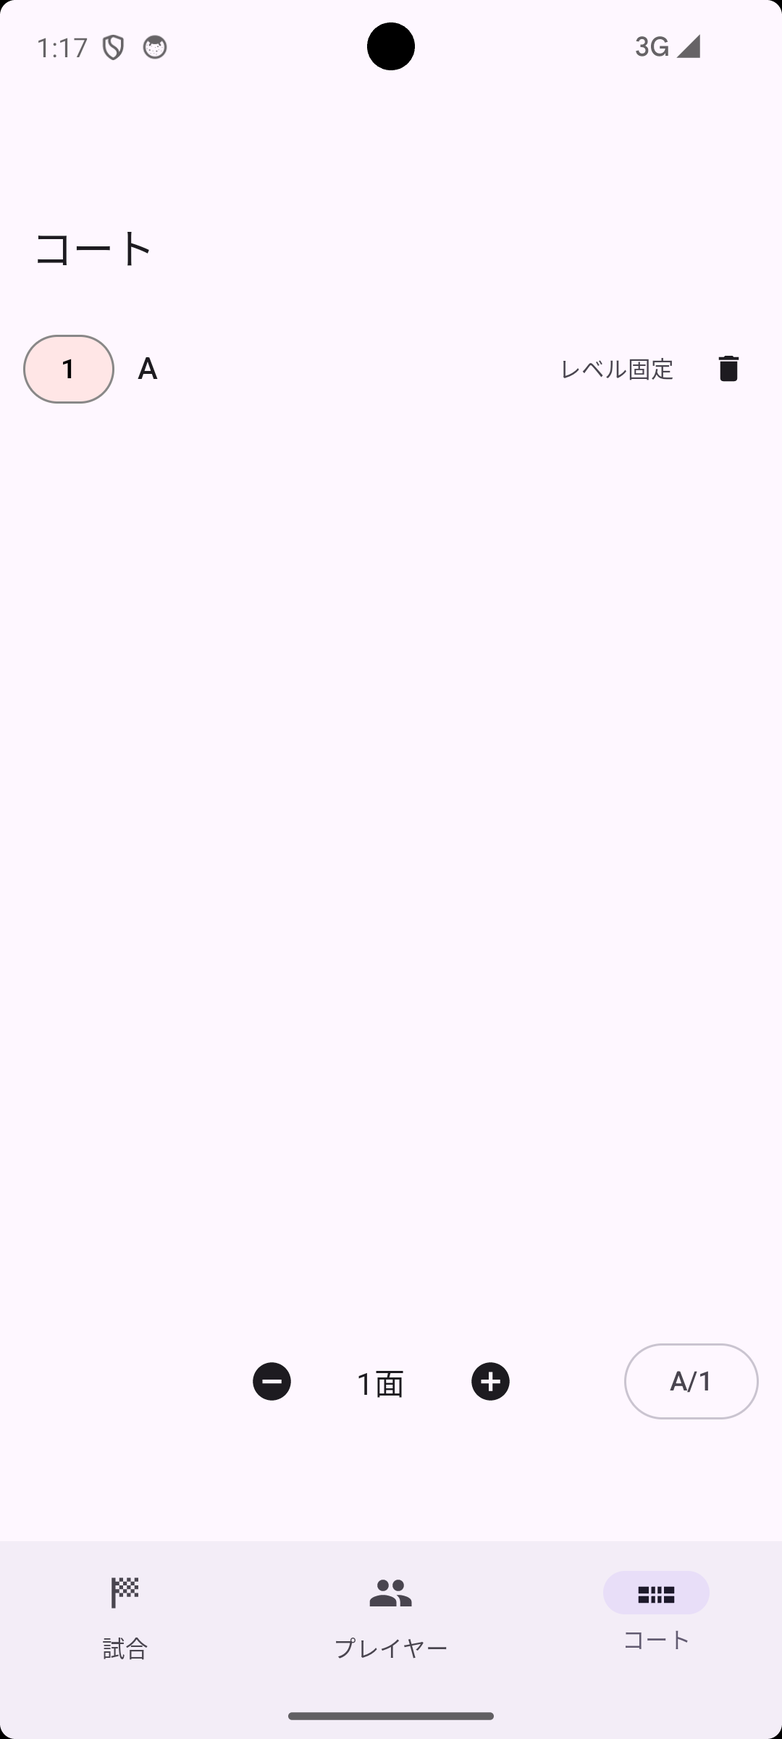
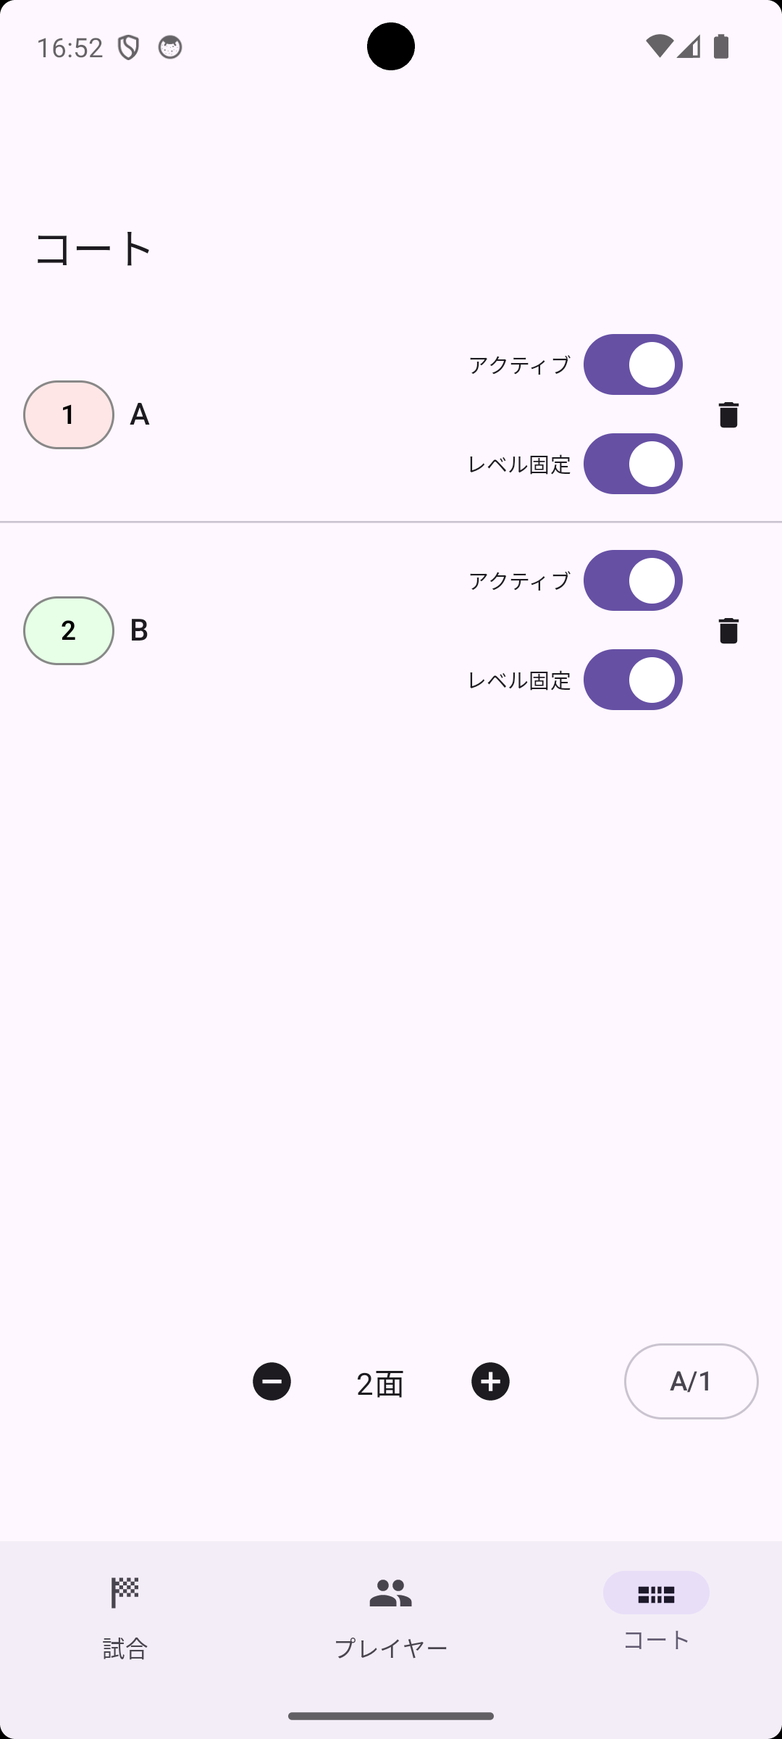
v1.2.13: Game Point設定・自動勝敗判定、コート編集の刷新を反映
試合タブ・コートタブ・プレイヤータブのヘルプ内容をv1.2.13の変更
（Game Point設定と自動勝敗判定、コート行のインライン設定、試合数
表示のG→M変更）に合わせて更新。コート・スコア画面のスクリーンショット
も差し替え。

diff --git a/game-tab.html b/game-tab.html
@@ -37,7 +37,12 @@
   </li>
   <li><a href="#free-mode">2. フリーモード（コート単位で個別生成）</a></li>
   <li><a href="#reset-scores">3. 試合結果をリセットする</a></li>
-  <li><a href="#score-input">4. スコア入力</a></li>
+  <li><a href="#score-input">4. スコア入力</a>
+    <ul>
+      <li><a href="#game-point">Game Point（勝利に必要な得点）を設定する</a></li>
+      <li><a href="#next-game-setup">G1・G2 終了後の自動設定</a></li>
+    </ul>
+  </li>
   <li><a href="#menu">5. 試合タブのメニュー</a>
     <ul>
       <li><a href="#share-session">セッションを共有</a></li>
@@ -78,14 +83,14 @@
 <div class="tip">💡 プレイヤーごと最初からやり直したい場合は、プレイヤータブの「プレイヤーのリセット」をご利用ください。</div>
 
 <h2 id="score-input">4. スコア入力</h2>
-<p>試合タブの試合行をタップすると、スコア入力画面が開きます（通常は縦向きで表示され、端末を横向きにすると2カラムのレイアウトに切り替わります）。画面は上から順に、<code>終了</code> トグル、そのコートで何ゲーム目かを切り替える <code>G1 / G2 / G3</code> ピッカーとここまでの勝ちゲーム数（<code>A: 0 - 0 :B</code>）、プレイヤー表示、<code>エンド</code> / <code>サーブ</code> ボタン、得点ボタンという構成です。勝ちゲーム数とゲームピッカーのスコアは、常に <strong>ペアA:ペアB</strong> の順で固定表示され、後述のエンドチェンジを行っても入れ替わりません。</p>
+<p>試合タブの試合行をタップすると、スコア入力画面が開きます（通常は縦向きで表示され、端末を横向きにすると2カラムのレイアウトに切り替わります）。画面は上から順に、<code>Game Point</code>（勝利に必要な得点）の設定と <code>終了</code> トグル、そのコートで何ゲーム目かを切り替える <code>G1 / G2 / G3</code> ピッカーとここまでの勝ちゲーム数（<code>A: 0 - 0 :B</code>）、プレイヤー表示、<code>エンド</code> / <code>サーブ</code> ボタン、得点ボタンという構成です。勝ちゲーム数とゲームピッカーのスコアは、常に <strong>ペアA:ペアB</strong> の順で固定表示され、後述のエンドチェンジを行っても入れ替わりません。</p>
 <p>プレイヤー表示には、それぞれ <strong>ペアA</strong> / <strong>ペアB</strong>（内部の pairA・pairB に対応）のラベルが付きます。こちらはエンドチェンジで実際の左右位置が入れ替わると、表示も一緒に切り替わります。</p>
 <div class="ss"><img src="images/score-main.png" alt="スコア入力画面"></div>
 
 <h3 id="input-score">得点を入力する</h3>
 <p>青（ペアA）・赤（ペアB）の大きな正方形ボタンに、それぞれの現在の得点が数字で表示されています。このボタンをタップすると、そのペアに1点が加算されます。ボタンは画面左右の位置に固定されており、後述のエンドチェンジでペアが入れ替わると、表示される数字（担当するペア）もそれに合わせて切り替わります。</p>
 <p>得点に合わせてサーブ権が自動で切り替わり、サーブ権を持つボタンの真上に「▲ サーブ」の表示が出ます。</p>
-<div class="tip">💡 得点は最大 30 点まで入力できます。</div>
+<div class="tip">💡 得点の上限は <a href="#game-point">Game Point</a> の設定によって変わります（デフォルトの Game Point 21 の場合、上限は30点）。</div>
 
 <h3 id="undo-score">得点を取り消す</h3>
 <p>中央の <code>↩</code>（元に戻す）ボタンで直前の得点を1点ずつ取り消せます。</p>
@@ -94,7 +99,25 @@
 <p>画面上部のタブ（<code>G1 / G2 / G3</code>）で第1ゲーム・第2ゲーム・第3ゲームを切り替えます。ここに表示されるスコアも <strong>ペアA:ペアB</strong> の順で固定表示されます。</p>
 
 <h3 id="finish-game">ゲーム終了を記録する</h3>
-<p>画面上部の <code>終了</code> トグルをオンにするとそのゲームが終了扱いになり、勝ちゲーム数（<code>A: 0 - 0 :B</code>）に反映されます。</p>
+<p>画面上部の <code>終了</code> トグルをオンにするとそのゲームが終了扱いになり、勝ちゲーム数（<code>A: 0 - 0 :B</code>）に反映されます。勝敗が決まる得点に達すると（下記「Game Point」参照）、このトグルは自動的にオンになります。まだ勝敗が決まっていない場合でも、手動でオンにすることは可能です。</p>
+
+<h3 id="game-point">Game Point（勝利に必要な得点）を設定する</h3>
+<p><code>終了</code> トグルの左側にある <code>Game Point</code> の <code>−</code> / <code>+</code> ボタンで、1ゲームの勝利に必要な得点を変更できます（デフォルト21点、バドミントン公式ルール）。この設定はアプリ全体で共有され、変更すると進行中の他の試合にもすぐに反映されます。</p>
+<p>設定した Game Point の値を N とすると、以下のルールで自動的に勝敗が判定され、決まった時点で <code>終了</code> トグルが自動的にオンになります。</p>
+<ul>
+  <li>先に N 点に到達したサイドがそのゲームの勝者となります</li>
+  <li>スコアが (N−1) 点オールになった場合は、その後最初に2点リードしたサイドが勝者となります</li>
+  <li>スコアが (N+8) 点オールになった場合は、次の1点（N+9点目）を先取したサイドが勝者となります</li>
+</ul>
+<div class="tip">💡 デフォルトの21点の場合、20点オールで2点差勝ち、29点オールで30点目の1点勝ち抜けとなり、公式ルールと同じ挙動になります。</div>
+
+<h3 id="next-game-setup">G1・G2 終了後の自動設定</h3>
+<p>G1 または G2 が終了すると（<code>終了</code> トグルがオンになると）、次のゲーム（G2 または G3）のエンドとサーブ権が自動的に設定されます。</p>
+<ul>
+  <li><strong>エンド</strong> — 前のゲームとは逆側になります</li>
+  <li><strong>サーブ</strong> — 前のゲームの勝者側が、次のゲームの最初のサーブ権を持ちます</li>
+</ul>
+<div class="tip">💡 次のゲームが既に開始されている場合（得点が入っている場合）は上書きされません。</div>
 
 <h3 id="end-change">エンドチェンジ</h3>
 <p><code>エンド</code> ボタンをタップすると、左右のペアが入れ替わります（エンドチェンジ）。<strong>ペアA</strong> / <strong>ペアB</strong> のラベルや得点ボタンの表示も、実際にどちらの位置にいるかに合わせて自動的に入れ替わります。スコア履歴のドットも自動で反転します。</p>

diff --git a/players-tab.html b/players-tab.html
@@ -32,16 +32,17 @@
   <li><a href="#rest-toggle">3. 出場状態を変更する（休憩・復帰）</a></li>
   <li><a href="#rename">4. 名前を変更する</a></li>
   <li><a href="#level">5. レベルを設定する</a></li>
-  <li><a href="#default-absent">6. デフォルト欠席を設定する</a></li>
-  <li><a href="#fixed-pair">7. 固定ペアを設定する</a></li>
-  <li><a href="#status">8. 現在の出場状況を確認する</a></li>
-  <li><a href="#pin">9. ピン留めで優先出場させる</a></li>
-  <li><a href="#save-load">10. メンバーを保存・読み込む</a>
+  <li><a href="#game-wait-count">6. 試合数・待機回数（M・W）を確認する</a></li>
+  <li><a href="#default-absent">7. デフォルト欠席を設定する</a></li>
+  <li><a href="#fixed-pair">8. 固定ペアを設定する</a></li>
+  <li><a href="#status">9. 現在の出場状況を確認する</a></li>
+  <li><a href="#pin">10. ピン留めで優先出場させる</a></li>
+  <li><a href="#save-load">11. メンバーを保存・読み込む</a>
     <ul>
       <li><a href="#groups">グループについて</a></li>
     </ul>
   </li>
-  <li><a href="#shuffle">11. 開始順をシャッフルする</a></li>
+  <li><a href="#shuffle">12. 開始順をシャッフルする</a></li>
 </ul>
 </nav>
 
@@ -69,26 +70,36 @@
 <div class="ss"><img src="images/players-overview.png" alt="レベルバッジ"></div>
 <p>レベルはコートへの割り当てに使用されます。詳しくは「高度な使い方」をご覧ください。</p>
 
-<h2 id="default-absent">6. デフォルト欠席を設定する</h2>
+<h2 id="game-wait-count">6. 試合数・待機回数（M・W）を確認する</h2>
+<p>レベルバッジの右には、<strong>M</strong>（試合数）と<strong>W</strong>（待機回数）が数字で表示されます。</p>
+<div class="ss"><img src="images/players-overview.png" alt="M（試合数）とW（待機回数）の表示"></div>
+<ul>
+  <li><strong>M</strong>（Match） — これまでに出場した試合数</li>
+  <li><strong>W</strong>（Wait） — 連続で試合に出場していない回数。組み合わせ生成時、この数値が大きいプレイヤーほど優先的に選ばれます（出場すると 0 に戻ります）</li>
+</ul>
+<div class="tip">💡 組み合わせがきちんと公平にローテーションされているかを確認したいときの目安として利用できます。</div>
+<div class="tip">💡 試合の途中で新しく追加したプレイヤーは、W が 0 のままでも次の組み合わせで最優先に出場します。一度も出場していないプレイヤーは、待機回数に関わらず優先されるためです。</div>
+
+<h2 id="default-absent">7. デフォルト欠席を設定する</h2>
 <p>毎回欠席することが多いメンバーには、編集画面の <code>デフォルト欠席</code> をオンにしておくと、メンバーデータを読み込んだ際に自動的に休憩状態でリストに追加されます。</p>
 
-<h2 id="fixed-pair">7. 固定ペアを設定する</h2>
+<h2 id="fixed-pair">8. 固定ペアを設定する</h2>
 <p>編集画面の <strong>ペア</strong> セクションから、常に同じペアを組むプレイヤーを指定できます。固定されたペアはプレイヤー名の横に ♥ マーク付きで表示されます。</p>
 <div class="ss"><img src="images/players-pair.png" alt="固定ペア表示"></div>
 <div class="tip">💡 固定ペアはペアごとに色分けされるので、一覧や組み合わせ画面から一目で確認できます。</div>
 
-<h2 id="status">8. 現在の出場状況を確認する</h2>
+<h2 id="status">9. 現在の出場状況を確認する</h2>
 <p>プレイヤータブのリストで、プレイヤー名の左に丸印が表示されます。<strong>赤丸</strong>は現在進行中の試合に出場していることを示し、<strong>グレーの丸</strong>はそれ以外（次の組み合わせ待ちや休憩中など）を示します。</p>
 <div class="ss"><img src="images/players-status.png" alt="出場中（赤丸）と待機中（グレーの丸）の表示"></div>
 <div class="tip">💡 右側の「出場中／休憩中／欠席」表示は出場設定（休憩トグル）を示すもので、この丸印とは意味が異なります。丸印はあくまで「いまコートで試合中かどうか」を表します。</div>
 
-<h2 id="pin">9. ピン留めで優先出場させる</h2>
+<h2 id="pin">10. ピン留めで優先出場させる</h2>
 <p>丸印をタップすると、そのプレイヤーはピン留め状態になり、丸印の代わりにピンのアイコンが表示されます。ピン留めされたプレイヤーは、待ち回数に関わらず次の組み合わせで最優先に選ばれます。もう一度ピンのアイコンをタップすると、ピン留めが解除されて丸印表示に戻ります。</p>
 <div class="ss"><img src="images/players-pin.png" alt="ピン留め表示"></div>
 <div class="tip">💡 固定ペアを組んでいる場合、ピン留め・解除はペア相手にも連動します。また、休憩中のプレイヤーをピン留めすると、休憩状態は自動的に解除されます。</div>
 <div class="tip">💡 ピン留めは保存されない一時的な指定です。アプリを再起動したり、メンバーを読み込み直したりするとリセットされます。</div>
 
-<h2 id="save-load">10. メンバーを保存・読み込む</h2>
+<h2 id="save-load">11. メンバーを保存・読み込む</h2>
 <p>プレイヤータブ左上の <code>⋮</code> メニューから以下の操作ができます。</p>
 <ul>
   <li><strong>保存</strong> — 現在のプレイヤーリストをメンバーデータベースに保存</li>
@@ -108,7 +119,7 @@
 <p>グループを割り当てたら、<code>⋮</code> メニューの <strong>保存</strong> でメンバーデータベースに保存してください。</p>
 <div class="ss"><img src="images/players-group-select.png" alt="読み込むグループの選択画面"></div>
 
-<h2 id="shuffle">11. 開始順をシャッフルする</h2>
+<h2 id="shuffle">12. 開始順をシャッフルする</h2>
 <p>組み合わせはプレイヤーリストの並び順をもとに決まります。同じメンバーで練習を重ねていると、試合タブの <code>↻</code> でゲームを初期化するたびに、毎回同じ組み合わせから始まってしまうことがあります。プレイヤータブ下部のシャッフルアイコン（🔀）をタップすると、プレイヤーの名前・レベル・出場設定などをリスト内でランダムに入れ替え、次の組み合わせの偏りを防げます。</p>
 <div class="tip">💡 シャッフルは、まだ1回も組み合わせを生成していない状態（初期化直後）でのみ実行できます。試合を始めた後にシャッフルしたい場合は、先に試合タブの <code>↻</code> リセットボタンで初期化してください。</div>
 

diff --git a/courts-tab.html b/courts-tab.html
@@ -25,8 +25,8 @@
 <ul>
   <li><a href="#court-count">1. コート数を増減する</a></li>
   <li><a href="#court-name">2. コート名の表記を切り替える</a></li>
-  <li><a href="#court-config">3. コートを編集する</a></li>
-  <li><a href="#level-fixed-free">4. レベル固定とレベルフリー</a></li>
+  <li><a href="#court-level">3. コートのレベルを設定する</a></li>
+  <li><a href="#court-config">4. コートの設定（アクティブ・レベル固定）を変更する</a></li>
 </ul>
 </nav>
 
@@ -37,22 +37,15 @@
 <h2 id="court-name">2. コート名の表記を切り替える</h2>
 <p>画面下部の <code>A/1</code> ボタンをタップすると、コート名をアルファベット（A・B・C…）と数字（1・2・3…）で切り替えられます。</p>
 
-<h2 id="court-config">3. コートを編集する</h2>
-<p>コートの行をタップすると編集画面が開きます。</p>
-<ul>
-  <li><strong>アクティブ</strong> — オフにするとそのコートは組み合わせ生成の対象外になります</li>
-  <li><strong>レベル</strong> — コートのレベルを設定（1・2・3・1&amp;2）</li>
-  <li><strong>レベル固定</strong> — オンにすると、設定したレベルのプレイヤーのみが割り当てられます</li>
-</ul>
-<div class="ss"><img src="images/court-edit-main.png" alt="コート編集画面"></div>
+<h2 id="court-level">3. コートのレベルを設定する</h2>
+<p>各コートの左端にあるレベルバッジをタップするたびに 1→2→3→1&amp;2→1 と切り替わります。レベル分けの詳しい使い方は「高度な使い方」をご覧ください。</p>
 
-<h2 id="level-fixed-free">4. レベル固定とレベルフリー</h2>
-<p>コート一覧では各コートに <code>レベル固定</code> または <code>レベルフリー</code> と表示されます。</p>
+<h2 id="court-config">4. コートの設定（アクティブ・レベル固定）を変更する</h2>
+<p>各コートの行の右側に、次の2つの設定がトグルとして直接表示されます。タップして別画面を開く必要はありません。</p>
 <ul>
-  <li><strong>レベル固定</strong>（オン） — 設定したレベルのプレイヤーのみ割り当て</li>
-  <li><strong>レベルフリー</strong>（オフ） — レベルに関係なく割り当て</li>
+  <li><strong>アクティブ</strong> — オフにするとそのコートは組み合わせ生成の対象外になります。オフのコートは行全体がグレー表示になります</li>
+  <li><strong>レベル固定</strong> — オンにすると、設定したレベルのプレイヤーのみそのコートに割り当てられます。オフにすると、レベルに関係なく割り当てられます</li>
 </ul>
-<div class="tip">💡 レベル分けの詳しい使い方は「高度な使い方」をご覧ください。</div>
 
 </body>
 </html>

diff --git a/home.html b/home.html
@@ -18,7 +18,7 @@
 <body>
 
 <h1>くみあぷ（PairGen）</h1>
-<p><span class="badge">v1.2.12</span><span class="badge">対応 iOS v1.21.0</span></p>
+<p><span class="badge">v1.2.13</span><span class="badge">対応 iOS v1.22.0</span></p>
 <div class="note">⚠ This help is available in Japanese only. Please use your browser's auto-translate feature.</div>
 <p>くみあぷ（PairGen）はバドミントン・テニスなどのダブルス競技向けに、組み合わせを自動生成する Android と iOS のアプリです。参加人数とコート数を設定するだけで、重複を最小限に抑えた組み合わせをすぐに生成できます。</p>
 
@@ -65,10 +65,12 @@
   <li>試合結果メール本文は英語のみ（UI本体は日本語対応）</li>
 </ul>
 
-<h2>バージョン 1.2.12 更新内容</h2>
+<h2>バージョン 1.2.13 更新内容</h2>
 <ul>
-  <li>複数のプレイヤーが同時に休憩している間、休憩終了後の待機カウント（優先度）が正しく増加しない不具合を修正</li>
-  <li>プレイヤータブの「保存」ボタンを押していなくても、得点入力やリセットなどのたびにメンバーデータベースへ現在のプレイヤー名・グループが自動的に上書き保存されてしまう不具合を修正</li>
+  <li>スコア画面に Game Point（1ゲームの勝利に必要な得点、デフォルト21）の設定を追加。バドミントン公式ルールに従って自動的に勝敗を判定し、「終了」トグルを自動的にオンにするように変更</li>
+  <li>G1・G2が終了した直後、次のゲームのエンドとサーブ権を自動的に設定するように変更</li>
+  <li>コートタブの各行にアクティブ・レベル固定の設定をトグルとして直接表示し、タップして別画面を開く必要がないように変更</li>
+  <li>試合タブのコート表示レイアウトを調整し、プレイヤータブの試合数表示を「G」から「M」（Match）に変更</li>
 </ul>
 
 <h2>フィードバック</h2>

diff --git a/index.html b/index.html
@@ -18,7 +18,7 @@
 <body>
 
 <h1>くみあぷ（PairGen）</h1>
-<p><span class="badge">v1.2.12</span><span class="badge">対応 iOS v1.21.0</span></p>
+<p><span class="badge">v1.2.13</span><span class="badge">対応 iOS v1.22.0</span></p>
 <div class="note">⚠ This help is available in Japanese only. Please use your browser's auto-translate feature.</div>
 <p>くみあぷ（PairGen）はバドミントン・テニスなどのダブルス競技向けに、組み合わせを自動生成する Android と iOS のアプリです。参加人数とコート数を設定するだけで、重複を最小限に抑えた組み合わせをすぐに生成できます。</p>
 
@@ -65,10 +65,12 @@
   <li>試合結果メール本文は英語のみ（UI本体は日本語対応）</li>
 </ul>
 
-<h2>バージョン 1.2.12 更新内容</h2>
+<h2>バージョン 1.2.13 更新内容</h2>
 <ul>
-  <li>複数のプレイヤーが同時に休憩している間、休憩終了後の待機カウント（優先度）が正しく増加しない不具合を修正</li>
-  <li>プレイヤータブの「保存」ボタンを押していなくても、得点入力やリセットなどのたびにメンバーデータベースへ現在のプレイヤー名・グループが自動的に上書き保存されてしまう不具合を修正</li>
+  <li>スコア画面に Game Point（1ゲームの勝利に必要な得点、デフォルト21）の設定を追加。バドミントン公式ルールに従って自動的に勝敗を判定し、「終了」トグルを自動的にオンにするように変更</li>
+  <li>G1・G2が終了した直後、次のゲームのエンドとサーブ権を自動的に設定するように変更</li>
+  <li>コートタブの各行にアクティブ・レベル固定の設定をトグルとして直接表示し、タップして別画面を開く必要がないように変更</li>
+  <li>試合タブのコート表示レイアウトを調整し、プレイヤータブの試合数表示を「G」から「M」（Match）に変更</li>
 </ul>
 
 <h2>フィードバック</h2>

diff --git a/update-history.html b/update-history.html
@@ -16,6 +16,15 @@
 <p class="back-link"><a href="home.html">← ホームに戻る</a></p>
 <h1>更新履歴</h1>
 
+<h2>v1.2.13</h2>
+<ul>
+  <li>スコア画面に Game Point（1ゲームの勝利に必要な得点、デフォルト21）の設定を追加。バドミントン公式ルール（20点オールで2点差勝ち、29点オールで30点目の1点勝ち抜け）に従って自動的に勝敗を判定し、「終了」トグルを自動的にオンにするように変更（iOS反映）</li>
+  <li>G1・G2が終了した直後、次のゲームのエンド（前のゲームと逆側）とサーブ権（前のゲームの勝者側）を自動的に設定するように変更（iOS反映）</li>
+  <li>コートタブの各行にアクティブ・レベル固定の設定をトグルとして直接表示し、タップして別画面を開く必要がないように変更。設定項目がこれだけだった編集画面は削除（iOS反映）</li>
+  <li>試合タブのコート表示レイアウトを調整。コート名の左にレベルバッジを配置し、勝敗スコアを行内で中央揃えに変更（iOS反映）</li>
+  <li>プレイヤータブの試合数表示を「G」から「M」（Match）に変更。スコア画面の「G1/G2/G3」は1試合内の1ゲームを指すため、試合数を「G」で表示すると意味が紛らわしかったため（iOS反映）</li>
+</ul>
+
 <h2>v1.2.12</h2>
 <ul>
   <li>複数のプレイヤーが同時に休憩している間、休憩終了後の待機カウント（優先度）が正しく増加しない不具合を修正。休憩中のプレイヤーも他のプレイヤーと同じレートで待機カウントが増加するように変更（iOS反映）</li>
